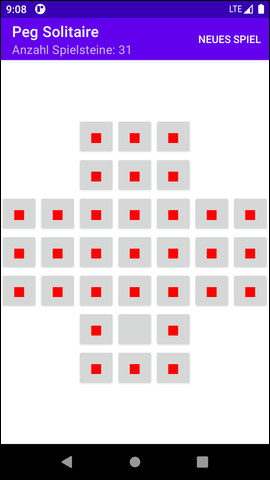
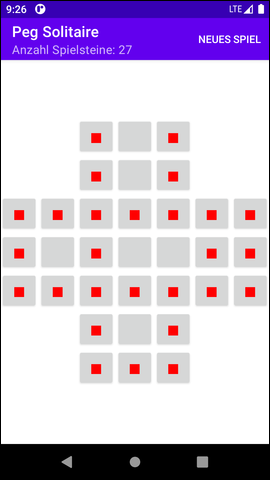
Fixed Method sprungDurchfuehren()

diff --git a/app/src/main/java/de/mide/pegsolitaire/MainActivity.java b/app/src/main/java/de/mide/pegsolitaire/MainActivity.java
@@ -414,19 +414,20 @@ public class MainActivity extends AppCompatActivity implements OnClickListener {
      */
     private void sprungDurchfuehren(Button startButton, Button zielButton, Button uebersprungButton) {
 
-        SpielfeldPosition startPosition = (SpielfeldPosition)startButton.getTag();
-        SpielfeldPosition zielPosition = (SpielfeldPosition) zielButton.getTag();
+        SpielfeldPosition startPosition       = (SpielfeldPosition) startButton.getTag();
+        SpielfeldPosition zielPosition        = (SpielfeldPosition) zielButton.getTag();
         SpielfeldPosition uebersprungPosition = (SpielfeldPosition) uebersprungButton.getTag();
 
-        int startZeile = startPosition.getIndexZeile();
+        int startZeile  = startPosition.getIndexZeile();
         int startSpalte = startPosition.getIndexSpalte();
 
-        int zielZeile = zielPosition.getIndexZeile();
-        int zielSpalte = zielPosition.getIndexZeile();
+        int zielZeile  = zielPosition.getIndexZeile();
+        int zielSpalte = zielPosition.getIndexSpalte();
 
         int uebersprungZeile = uebersprungPosition.getIndexZeile();
-        int uebersprungSpalte = uebersprungPosition.getIndexZeile();
+        int uebersprungSpalte = uebersprungPosition.getIndexSpalte();
 
+        // Buttons aktualisieren
         startButton.setText("");
         startButton.setTextColor(TEXTFARBE_ROT);
 
@@ -436,6 +437,7 @@ public class MainActivity extends AppCompatActivity implements OnClickListener {
         uebersprungButton.setText("");
         uebersprungButton.setTextColor(TEXTFARBE_GRAU);
 
+        // Status-Werte in Spielfeld-Array aktualisieren
         _spielfeldArray[startZeile][startSpalte] = LEER;
         _spielfeldArray[zielZeile][zielSpalte] = BESETZT;
         _spielfeldArray[uebersprungZeile][uebersprungSpalte] = LEER;
